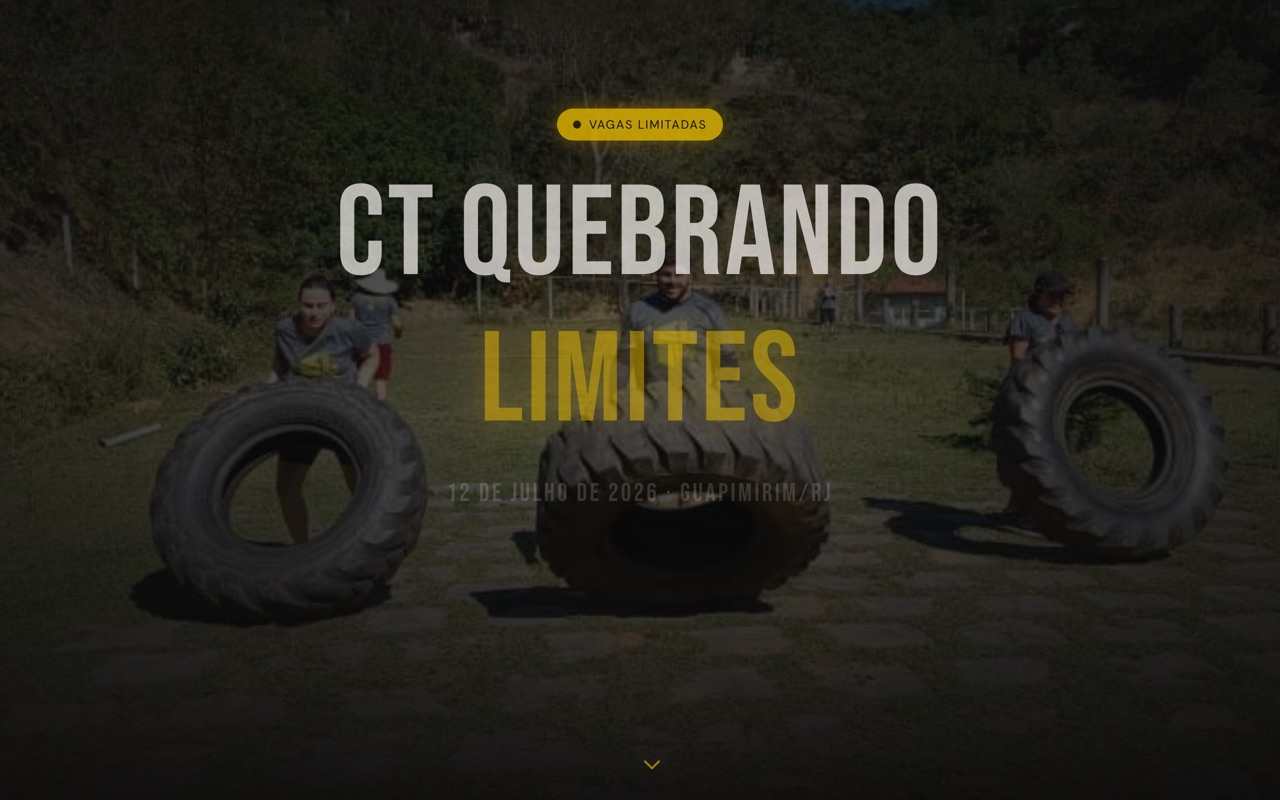
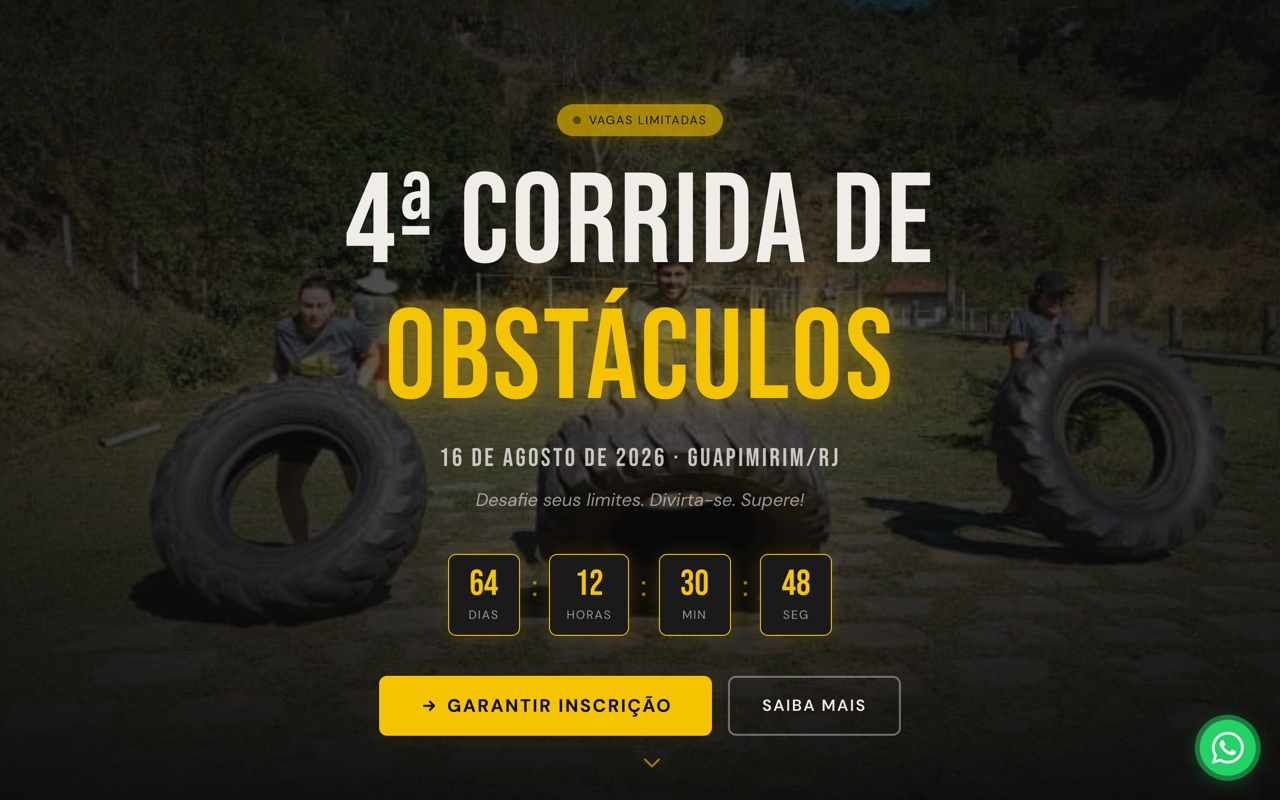
feat: portfólio híbrido (print quando bom, card desenhado quando não)
- CT: print refeito com a animação assentada (hero completo).
- Única: card desenhado da marca (gradiente + ícone + chips), já que
  o sistema exige login; removida portfolio-unica.jpg.
- Project ganha icon e tags; Portfolio renderiza print OU painel.

diff --git a/src/data/projects.ts b/src/data/projects.ts
@@ -1,6 +1,9 @@
 /**
  * Portfólio — projetos reais exibidos na seção Portfólio.
- * Imagens: capturas dos sites no ar, em /public/images.
+ *
+ * Cada card tem um visual: se `image` existir, mostra a captura do site;
+ * senão, renderiza um painel desenhado da marca com `icon` (útil para
+ * sistemas acessíveis só com login). `tags` aparecem como chips no rodapé.
  */
 
 export interface Project {
@@ -12,8 +15,12 @@ export interface Project {
   category: string;
   /** Descrição curta do resultado entregue. */
   description: string;
-  /** Caminho da imagem em /public/images. */
-  image: string;
+  /** Captura em /public/images. Ausente = usa o visual desenhado (icon). */
+  image?: string;
+  /** Nome do ícone (ver Icon.astro) para o visual desenhado quando não há print. */
+  icon?: string;
+  /** Recursos/stack exibidos como chips no card. */
+  tags?: string[];
   /** Link externo do projeto (vazio = sem link clicável). */
   url: string;
 }
@@ -26,6 +33,7 @@ export const projects: Project[] = [
     description:
       'Plataforma de evento esportivo com inscrição online, pagamento integrado, confirmação automática e check-in por QR Code.',
     image: '/images/portfolio-ct.jpg',
+    tags: ['Inscrição online', 'Pagamento', 'QR Code'],
     url: '',
   },
   {
@@ -33,8 +41,9 @@ export const projects: Project[] = [
     title: 'Suporte Única',
     category: 'Sistema sob medida',
     description:
-      'Sistema de abertura e acompanhamento de chamados: o usuário abre, consulta o status e a equipe gerencia tudo por um painel.',
-    image: '/images/portfolio-unica.jpg',
+      'Sistema de abertura e acompanhamento de chamados: o usuário abre, consulta o status e a equipe gerencia tudo por um painel administrativo.',
+    icon: 'headphones',
+    tags: ['Chamados', 'Painel admin', 'Status em tempo real'],
     url: '',
   },
 ];

diff --git a/docs/10-registro-de-alteracoes.md b/docs/10-registro-de-alteracoes.md
@@ -1,5 +1,17 @@
 # Registro de Alterações
 
+## 2026-06-12 (portfólio híbrido)
+
+### Alterado
+
+- **Card de portfólio híbrido**: projeto com `image` mostra a captura; sem `image`, renderiza um painel desenhado da marca (gradiente + grade + brilho lime + ícone). Adicionados `icon` e `tags` (chips) ao modelo `Project`.
+- **CT Quebrando Limites**: print refeito esperando a animação assentar (hero completo com countdown).
+- **Suporte Única**: trocado o print do formulário por card desenhado (o miolo do sistema exige login). Ícone `headphones` + chips. Removida `portfolio-unica.jpg`.
+
+### Arquivos modificados
+
+- `src/components/Portfolio.astro`, `src/data/projects.ts`, `public/images/portfolio-ct.jpg` (atualizado), `public/images/portfolio-unica.jpg` (removido)
+
 ## 2026-06-12 (revisão mobile + conversão)
 
 ### Alterado
